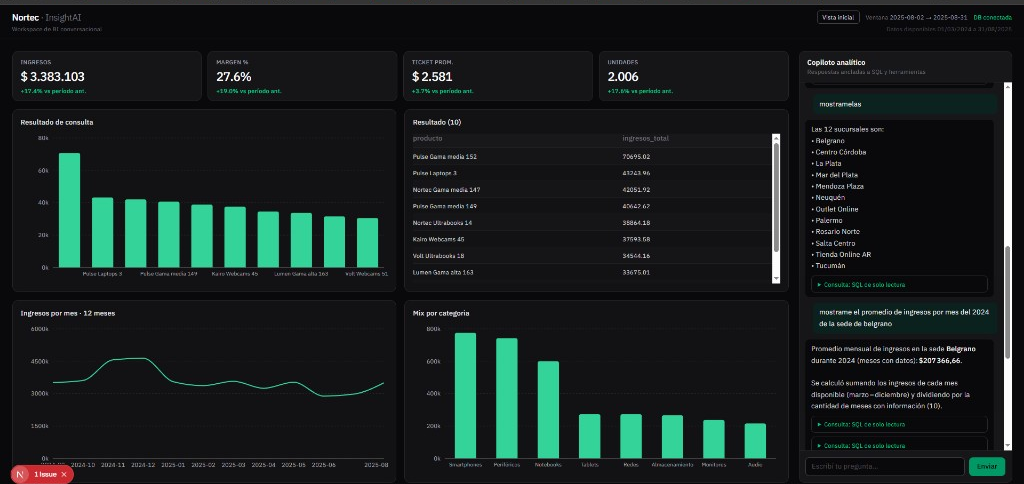
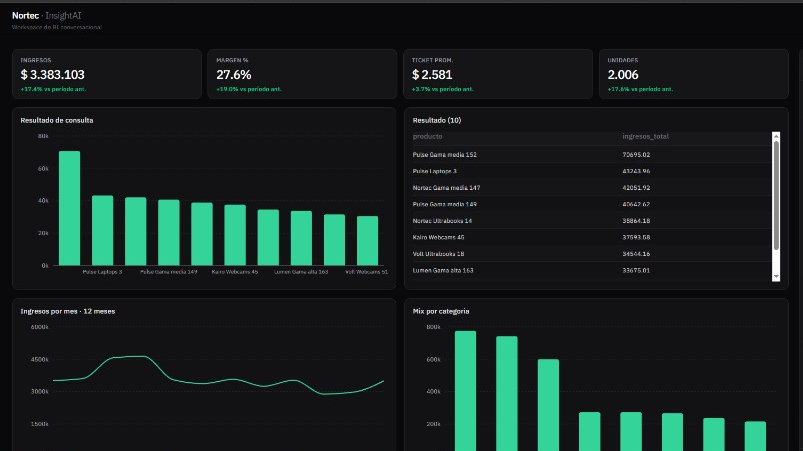
fix: InsightAI cover without error overlay and smaller case card

diff --git a/components/case-study/CaseStudyBody.tsx b/components/case-study/CaseStudyBody.tsx
@@ -18,8 +18,8 @@ export function CaseStudyBody({ work }: { work: WorkItem }) {
         Volver
       </Link>
 
-      <div className="mt-8">
-        <XenonCover src={work.coverPath} alt="" />
+      <div className="mt-8 mx-auto max-w-xl">
+        <XenonCover src={work.coverPath} alt={work.title} />
       </div>
 
       <header className="mt-8">

diff --git a/components/media/XenonCover.tsx b/components/media/XenonCover.tsx
@@ -16,7 +16,7 @@ export function XenonCover({
           alt={alt}
           fill
           sizes="(min-width: 768px) 48rem, 100vw"
-          className="object-cover"
+          className="object-contain bg-[#0c0f11]"
           priority
         />
       </div>

diff --git a/app/globals.css b/app/globals.css
@@ -128,7 +128,7 @@ body::after {
 .xenon-cover {
   position: relative;
   isolation: isolate;
-  padding-bottom: 4.5rem;
+  padding-bottom: 2.25rem;
 }
 
 .xenon-cover-frame {
